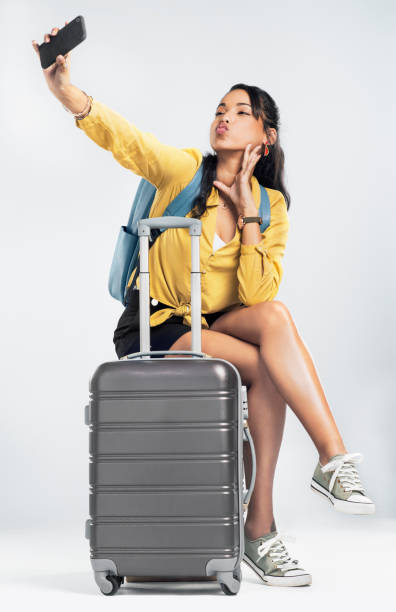
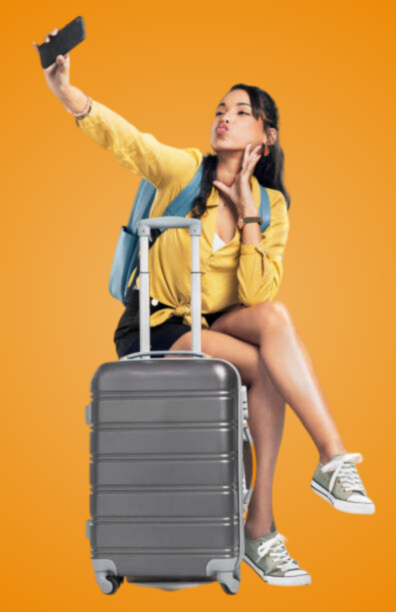
fixed navbar and subpages

diff --git a/pages/life-insurance/index.jsx b/pages/life-insurance/index.jsx
@@ -43,7 +43,7 @@ const LifeInsurance = () => {
       <div
         className=' relative top-[-165px] '
         style={{
-          background: `url(${'/images/lifeinsurance.png'})`,
+          background: `url(${'/images/sub/life.jpeg'})`,
           backgroundPosition: 'center',
           backgroundSize: 'cover',
         }}
@@ -51,46 +51,6 @@ const LifeInsurance = () => {
         <div className='py-52 pb-40 bg-[#45A1D3CC]'>
           <div className=' max-w-7xl m-auto flex flex-col gap-5 xl:px-0 px-10'>
             <Slider {...settings}>
-              {/* <div className='flex flex-col gap-3 '>
-              <p className='text-[48px] text-white text-center font-bold'>
-                Term Life Insurance
-              </p>
-              <p className='lg:w-[50%] sm:w-[70%] text-white w-[100%] text-center m-auto'>
-                Term insurance is a type of life insurance that provides
-                financial protection to the policyholder for a predetermined
-                duration. If the insured person passes away within the policy's
-                timeframe, the company disburses a death benefit to the
-                designated beneficiary.
-              </p>
-            </div>
-
-            <div className='flex flex-col gap-3 '>
-              <p className='text-[48px] text-white text-center font-bold'>
-                Universal Life Insurance
-              </p>
-              <p className='lg:w-[50%] sm:w-[70%] text-white w-[100%] text-center m-auto'>
-                Universal life insurance is a variant of permanent life
-                insurance that provides policyholders with premium payment
-                flexibility, a cash savings element, and a death benefit. Within
-                universal life insurance, individuals have the option to borrow
-                from or withdraw funds from the accumulating savings portion,
-                which grows without taxation throughout their lifetime.
-              </p>
-            </div>
-
-            <div className='flex flex-col gap-3 '>
-              <p className='text-[48px] text-white text-center font-bold'>
-                Whole Life Insurance
-              </p>
-              <p className='lg:w-[50%] sm:w-[70%] text-white w-[100%] text-center m-auto'>
-                Universal life insurance is a variant of permanent life
-                insurance that provides policyholders with premium payment
-                flexibility, a cash savings element, and a death benefit. Within
-                universal life insurance, individuals have the option to borrow
-                from or withdraw funds from the accumulating savings portion,
-                which grows without taxation throughout their lifetime.
-              </p>
-            </div> */}
               <div className='flex px-[24px] flex-col gap-5'>
                 <h1 className='text-[48px] text-white text-center font-bold drop-shadow-lg'>
                   Term Life Insurance

diff --git a/components/Coverages/CoverageSlider.js b/components/Coverages/CoverageSlider.js
@@ -9,7 +9,8 @@ const CoverageSlider = () => {
       <div className='grid xl:grid-cols-5 sm:grid-cols-3 grid-cols-1 gap-5 sm:px-20 px-10 py-10'>
         <CoverageBox
           onClick={() => router.push('/life-insurance/term-life-insurance')}
-          image={'/images/new/life-new.jpeg'} positionX="left"
+          image={'/images/new/life-new.jpeg'}
+          positionX='left'
           // image={'/images/new/term-life-insurance.jpeg'}
           text={'Life Insurance'}
         />
@@ -39,16 +40,18 @@ const CoverageSlider = () => {
       <div className='grid xl:grid-cols-5 sm:grid-cols-3 grid-cols-2 gap-5 sm:px-20 px-10 py-10'>
         <CoverageBox
           onClick={() => router.push('/investments/rrsp')}
-          image={'/images/new/RRSP.jpg'}
+          image={'/images/new/rrsp.jpeg'}
           text={'RRSP / TFSA'}
         />
         <CoverageBox
           onClick={() => router.push('/investments/resp')}
-          image={'/images/new/RESP.jpg'}
+          image={'/images/new/resp-new.jpeg'}
           text={'RESP'}
         />
         <CoverageBox
-          onClick={() => router.push('/life-insurance/critical-illness-insurance')}
+          onClick={() =>
+            router.push('/life-insurance/critical-illness-insurance')
+          }
           image={'/images/new/critical-illness.jpg'}
           text={'Critical Illness Insurance'}
         />

diff --git a/components/Navbar/MainNav.js b/components/Navbar/MainNav.js
@@ -23,7 +23,10 @@ export default function MainNav() {
     {
       key: '2',
       label: (
-        <a rel='noopener noreferrer' href='/visitor-canada'>
+        <a
+          rel='noopener noreferrer'
+          href='/life-insurance/critical-illness-insurance'
+        >
           Critical Illness Insurance
         </a>
       ),
@@ -31,7 +34,10 @@ export default function MainNav() {
     {
       key: '3',
       label: (
-        <a rel='noopener noreferrer' href='/super-visa-insurance'>
+        <a
+          rel='noopener noreferrer'
+          href='/life-insurance/disability-insurance'
+        >
           Disability insurance
         </a>
       ),
@@ -39,7 +45,7 @@ export default function MainNav() {
     {
       key: '4',
       label: (
-        <a rel='noopener noreferrer' href='/super-visa-insurance'>
+        <a rel='noopener noreferrer' href='/life-insurance/health-insurance'>
           Health Insurance - Drug and Dental plans
         </a>
       ),
@@ -74,7 +80,7 @@ export default function MainNav() {
     {
       key: '4',
       label: (
-        <a rel='noopener noreferrer' href='/super-visa-insurance'>
+        <a rel='noopener noreferrer' href='/international-student-insurance'>
           International Student Insurance
         </a>
       ),

diff --git a/pages/life-insurance/health-insurance.jsx b/pages/life-insurance/health-insurance.jsx
@@ -1,0 +1,25 @@
+import { CoverageDetail } from '@/components/CoverageDetail';
+import { HeroSection } from '@/components/HeroSection/HeroSection';
+const HealthPage = () => {
+  return (
+    <>
+      <HeroSection
+        heading={'Health Insurance - Drug and Dental Plans'}
+        para={` Disability insurance offers protection against income loss caused by
+            the inability to work due to either permanent or temporary
+            disabilities. This type of insurance assists by replacing a portion
+            of your lost income and covering medical expenses in the event of an
+            accident resulting in disability.`}
+        img={'/images/sub/health.jpeg'}
+        color={'#eabd03cc'}
+        position='10% 40%'
+      />
+
+      <div className='relative top-[-165px]'>
+        <CoverageDetail />
+      </div>
+    </>
+  );
+};
+
+export default HealthPage;

diff --git a/pages/life-insurance/critical-illness-insurance.jsx b/pages/life-insurance/critical-illness-insurance.jsx
@@ -4,7 +4,7 @@ const CriticalillnessPage = () => {
   return (
     <>
       <HeroSection
-        img='/images/new/critical-illness.jpg'
+        img='/images/sub/critical.jpeg'
         heading={'Critical Illness Insurance'}
         para={` Critical illness insurance offers extra protection for unforeseen
             medical crises such as heart attacks, strokes, or cancer. Given that
@@ -12,7 +12,7 @@ const CriticalillnessPage = () => {
             expenses, these policies provide monetary payouts to assist in
             covering these excess costs when conventional health insurance might
             not be sufficient.`}
-        color={'#FF9801CC'}
+        color={'#308b84cc'}
         position='top'
       />
 

diff --git a/pages/auto-insurance.jsx b/pages/auto-insurance.jsx
@@ -3,11 +3,10 @@ import { CoverageDetail } from '@/components/CoverageDetail';
 import { HeroSection } from '@/components/HeroSection/HeroSection';
 
 const AutoInsurance = () => {
-
   return (
     <>
       <HeroSection
-        img='/images/new/auto-insurance.jpg'
+        img='/images/sub/auto.jpeg'
         heading={'Auto Insurance (Coming Soon)'}
         para={`Universal life insurance is a variant of permanent life insurance
             that provides policyholders with premium payment flexibility, a cash
@@ -18,7 +17,7 @@ const AutoInsurance = () => {
         color='#FF9801CC'
       />
       <div className='relative top-[-165px]'>
-        <ContactForm/>
+        <ContactForm />
       </div>
     </>
   );

diff --git a/pages/life-insurance/disability-insurance.jsx b/pages/life-insurance/disability-insurance.jsx
@@ -10,9 +10,9 @@ const DisabilityPage = () => {
             disabilities. This type of insurance assists by replacing a portion
             of your lost income and covering medical expenses in the event of an
             accident resulting in disability.`}
-        img={'/images/new/disability-insurance.jpeg'}
-        color={'#62B1BCCC'}
-        position='top'
+        img={'/images/sub/disability.jpeg'}
+        color={'#308b84CC'}
+        position='10% 30%'
       />
 
       <div className='relative top-[-165px]'>

diff --git a/pages/super-visa-insurance.jsx b/pages/super-visa-insurance.jsx
@@ -10,9 +10,9 @@ const SuperVisa = () => {
             citizens or residents, enabling extended stays. This insurance
             provides coverage for potential medical emergencies that could arise
             during their visit.`}
-        img={'/images/new/supervisa-insurance.jpeg'}
-        color={'#62B1BCCC'}
-        position='bottom'
+        img={'/images/sub/supervisa.jpeg'}
+        color={'#989292CC'}
+        position='10% 27%'
       />
 
       <div className='relative top-[-165px]'>

diff --git a/pages/visitor-canada.jsx b/pages/visitor-canada.jsx
@@ -11,8 +11,8 @@ const VisitorCanada = () => {
             insurance aids in covering expenses such as medical care or hospital
             stays if they fall ill, as well as covering additional hotel stays
             in case their return flight is canceled.`}
-        img={'/images/image2.png'}
-        color={'#62B1BCCC'}
+        img={'/images/sub/visitor.jpeg'}
+        color={'#04345CCC'} position='10% 20%'
       />
       
       <div className='relative top-[-165px]'>

diff --git a/pages/travel-insurance.jsx b/pages/travel-insurance.jsx
@@ -9,8 +9,8 @@ const SuperVisa = () => {
             covering medical expenses in the event of illness or injury while
             traveling. Additionally, it provides protection against financial
             losses stemming from trip cancellations or interruptions.`}
-        color={'#9AB88CCC'}
-        img={'/images/new/travel-insurance.jpg'}
+        color={'#ED8B09CC'}
+        img={'/images/sub/travel.jpg'}
       />
 
       <div className='relative top-[-165px]'>

diff --git a/pages/investments/rrsp.jsx b/pages/investments/rrsp.jsx
@@ -12,8 +12,8 @@ const RRSP = () => {
             deducted from your pre-tax income and the funds grow tax-free until
             withdrawal. Upon withdrawal, the amount is subject to taxation at
             the applicable marginal rate.`}
-        img={'/images/new/rrsp.jpg'}
-        color={'#A94443CC'}
+        img={'/images/sub/RRSP.jpeg'}
+        color={'#256c18CC'}
       />
 
       <div className='relative top-[-165px]'>

diff --git a/pages/investments/resp.jsx b/pages/investments/resp.jsx
@@ -12,8 +12,8 @@ const RESP = () => {
             higher education expenses. Alongside parental contributions, the
             government also provides a specific contribution to these plans for
             children below the age of 18.`}
-        img={'/images/new/resp.jpg'}
-        color={'#9AB88CCC'}
+        img={'/images/sub/RESP.jpg'}
+        color={'#5393becc'}
         position='top'
       />
 
